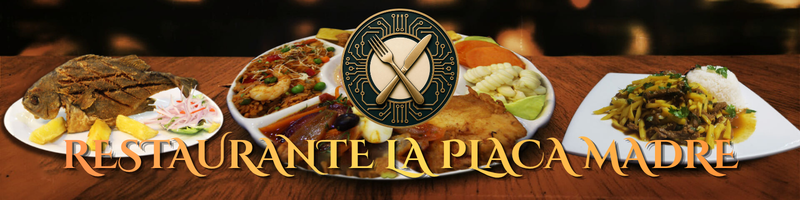
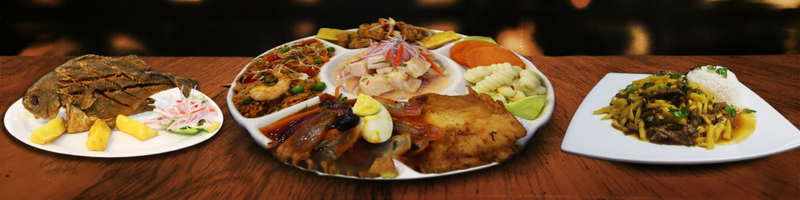
Mejoras en Incio.jsx

Changed region(s): [[0.0625, 0.66, 0.9375, 0.9], [0.4062, 0.03, 0.5938, 0.66]]

diff --git a/src/pages/Inicio.css b/src/pages/Inicio.css
@@ -3,56 +3,33 @@
     background-color: white;
     text-align: center;
 }
-
-.Promociones {
-    display: flex;
-    justify-content: center;
-    gap: 40px;
-    max-width: 1100px;
-    margin: 0 auto;
-    flex-wrap: wrap;
-}
-
-.Promociones .tarjeta-plato {
-    flex: 1;
-    min-width: 250px;
-}
-
-.tarjeta-plato {
-    border: 3px solid #1a1a1a;
-    border-radius: 15px;
-    display: flex;
-    flex-direction: column;
-    align-items: center;
-    overflow: hidden;
-    background-color: white;
-    padding-bottom: 25px;
+.header-inicio {
     position: relative;
-}
-
-.tarjeta-plato img {
-    width: 80%;
-    height: auto;
-    max-height: 180px;
-    margin: 25px 0;
-}
-
-.nombre-plato {
-    background-color: #1a1a1a;
-    color: white;
     width: 100%;
-    text-align: center;
-    padding: 15px 0;
-    margin: 0;
-
-    font-size: 16px;
+    min-height: 250px;
+    background-color: #696868;
 }
-.Inicio {
-    padding: 60px 20px;
-    background-color: white;
-    text-align: center;
+.header-inicio::before {
+content: "";
+    position: absolute;
+    top: 0;
+    left: 0;
+    width: 100%;
+    height: 100%;
+    background-image: url('/banner_inicio.png');
+    background-size: cover;
+    background-position: center;
+    opacity: 0.6;
+    z-index: 1;
 }
-
+.header-inicio img {
+    height: 200px;
+    width: auto;
+    display: block;
+    margin: 0 auto;
+    position: relative;
+    z-index: 2;
+}
 .Promociones {
     display: flex;
     justify-content: center;

diff --git a/src/pages/Cartas.css b/src/pages/Cartas.css
@@ -7,6 +7,31 @@ main {
     background-color: white;
     text-align: center;
 }
+.header-cartas {
+    position: relative;
+    width: 100%;
+    min-height: 350px;
+}
+.header-cartas::before {
+content: "";
+    position: absolute;
+    top: 0;
+    left: 0;
+    width: 100%;
+    height: 100%;
+    background-image: url('/image_af11eb5f.png');
+    background-size: cover;
+    background-position: center;
+    z-index: 1;
+}
+.header-cartas img {
+    height: 200px;
+    width: auto;
+    display: block;
+    margin: 15 auto;
+    position: relative;
+    z-index: 2;
+}
 .brow {
     text-align: center;
     font-size: 18px;

diff --git a/src/pages/Reservas.jsx b/src/pages/Reservas.jsx
@@ -160,7 +160,7 @@ function AsideContacto() {
     return (
       <>
         <header className="header-restaurante">
-          <img src="/Logo_Restaurante-removebg-preview.png" alt="Logo del Restaurante" />
+          <img src="/logo_con_texto.png" alt="Logo del Restaurante" />
         </header>
 
       <main>

diff --git a/src/pages/Cartas.jsx b/src/pages/Cartas.jsx
@@ -84,8 +84,8 @@ export default function Cartas() {
 
   return (
   <>
-      <header>
-        <img src="/image_af11eb5f.png" alt="Banner de la tienda" />
+      <header className='header-cartas'>
+        <img src="/logo_con_texto.png" alt="banner_restaurante" />
       </header>
     <main>
       <section>

diff --git a/src/pages/Inicio.jsx b/src/pages/Inicio.jsx
@@ -2,8 +2,8 @@ import './Inicio.css'
 export default function Inicio() {
   return (
     <>
-    <header>
-        <img src="/banner_inicio.png" alt="Banner de la tienda"/>
+    <header className='header-inicio'>
+        <img src="/logo_con_texto.png" alt="Banner de la tienda"/>
     </header>
 
     <main>

diff --git a/src/pages/Reservas.css b/src/pages/Reservas.css
@@ -28,7 +28,7 @@
 .header-restaurante img {
   position: relative;
   z-index: 2;
-  max-height: 150px;
+  max-height: 200px;
   width: auto;
   object-fit: contain;
   margin: 0 auto;
